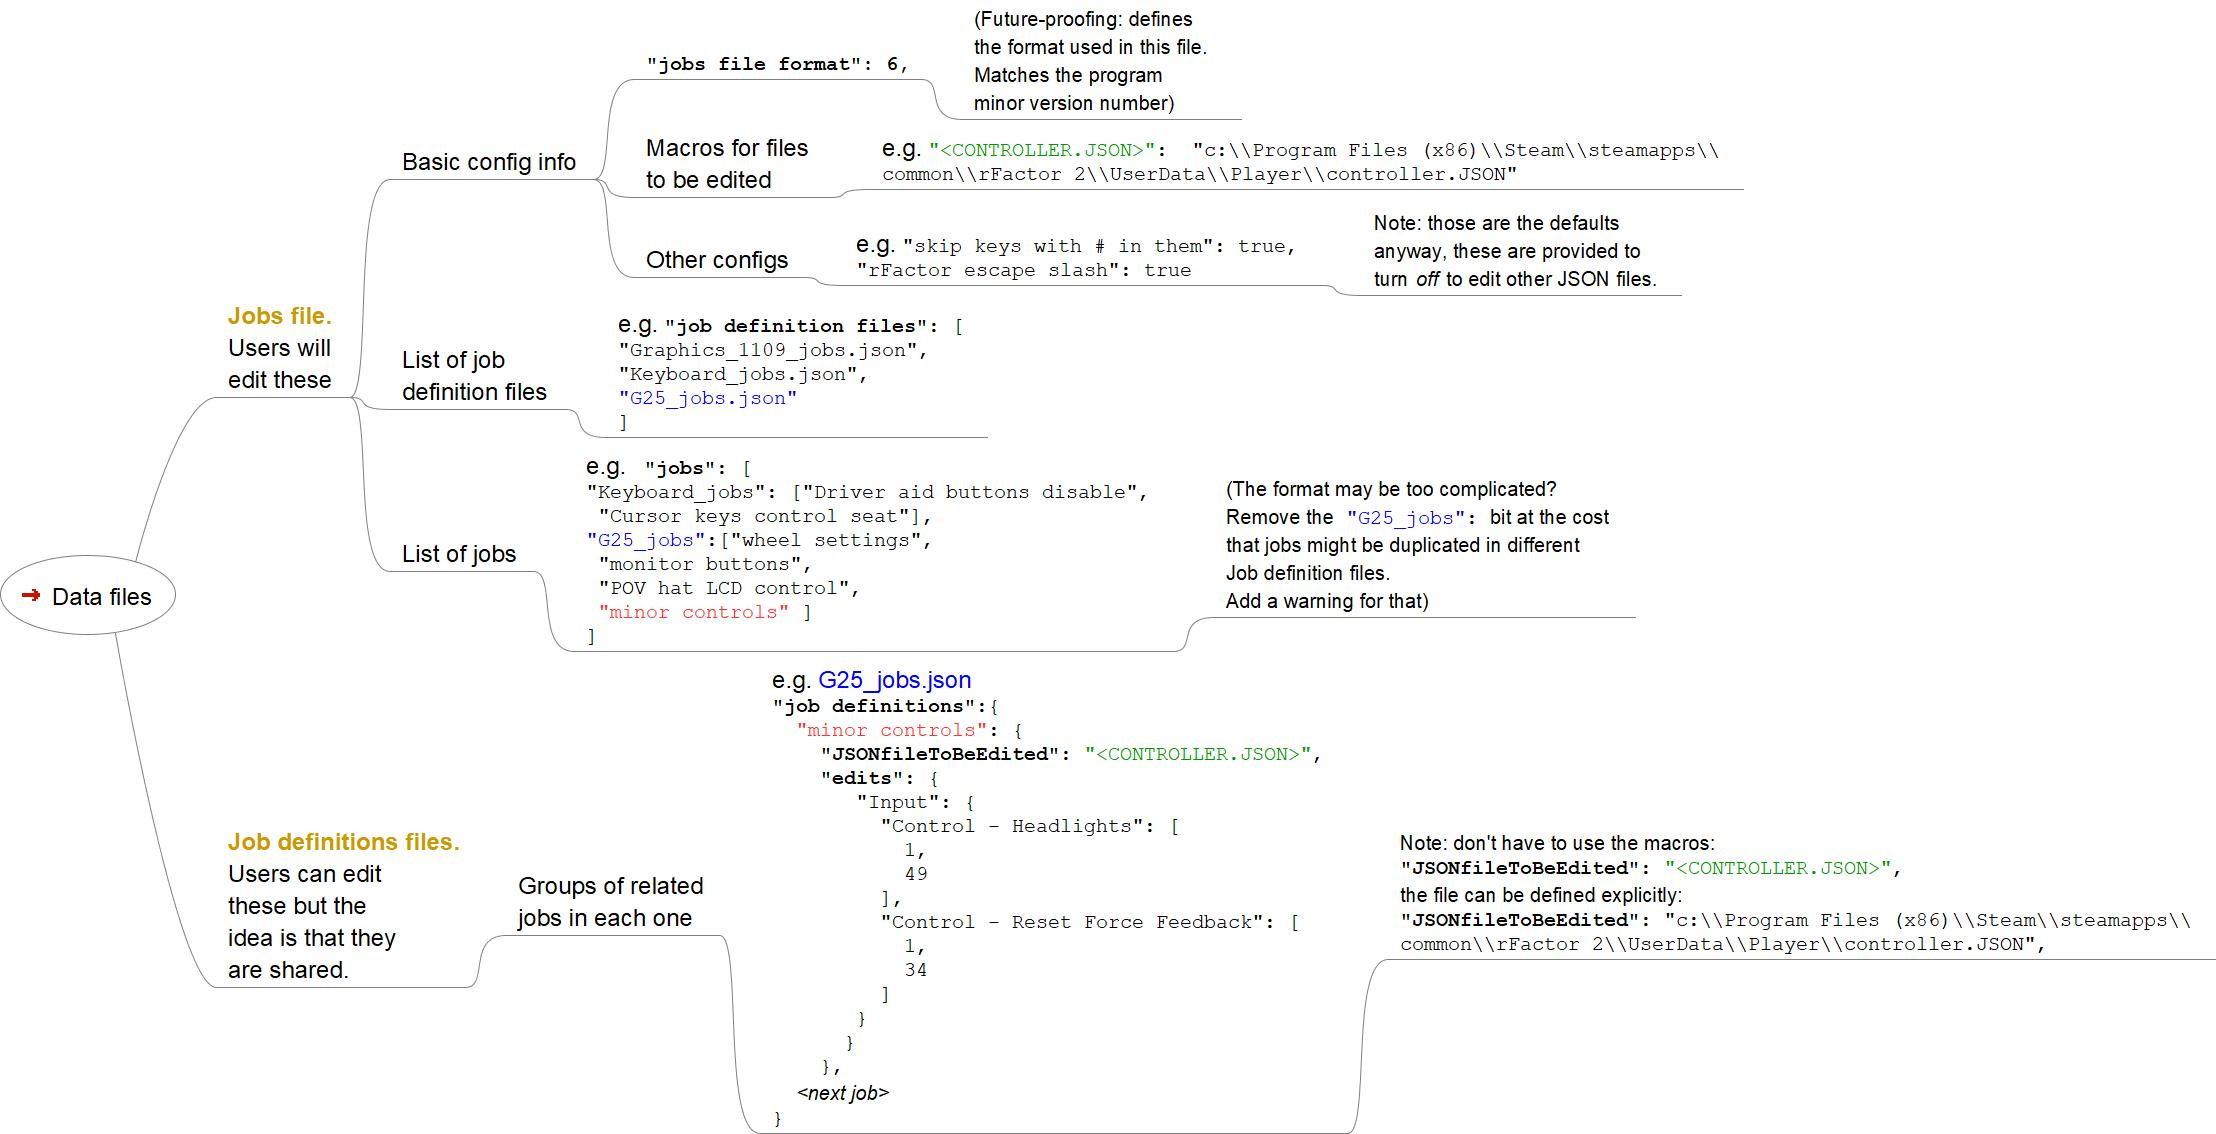
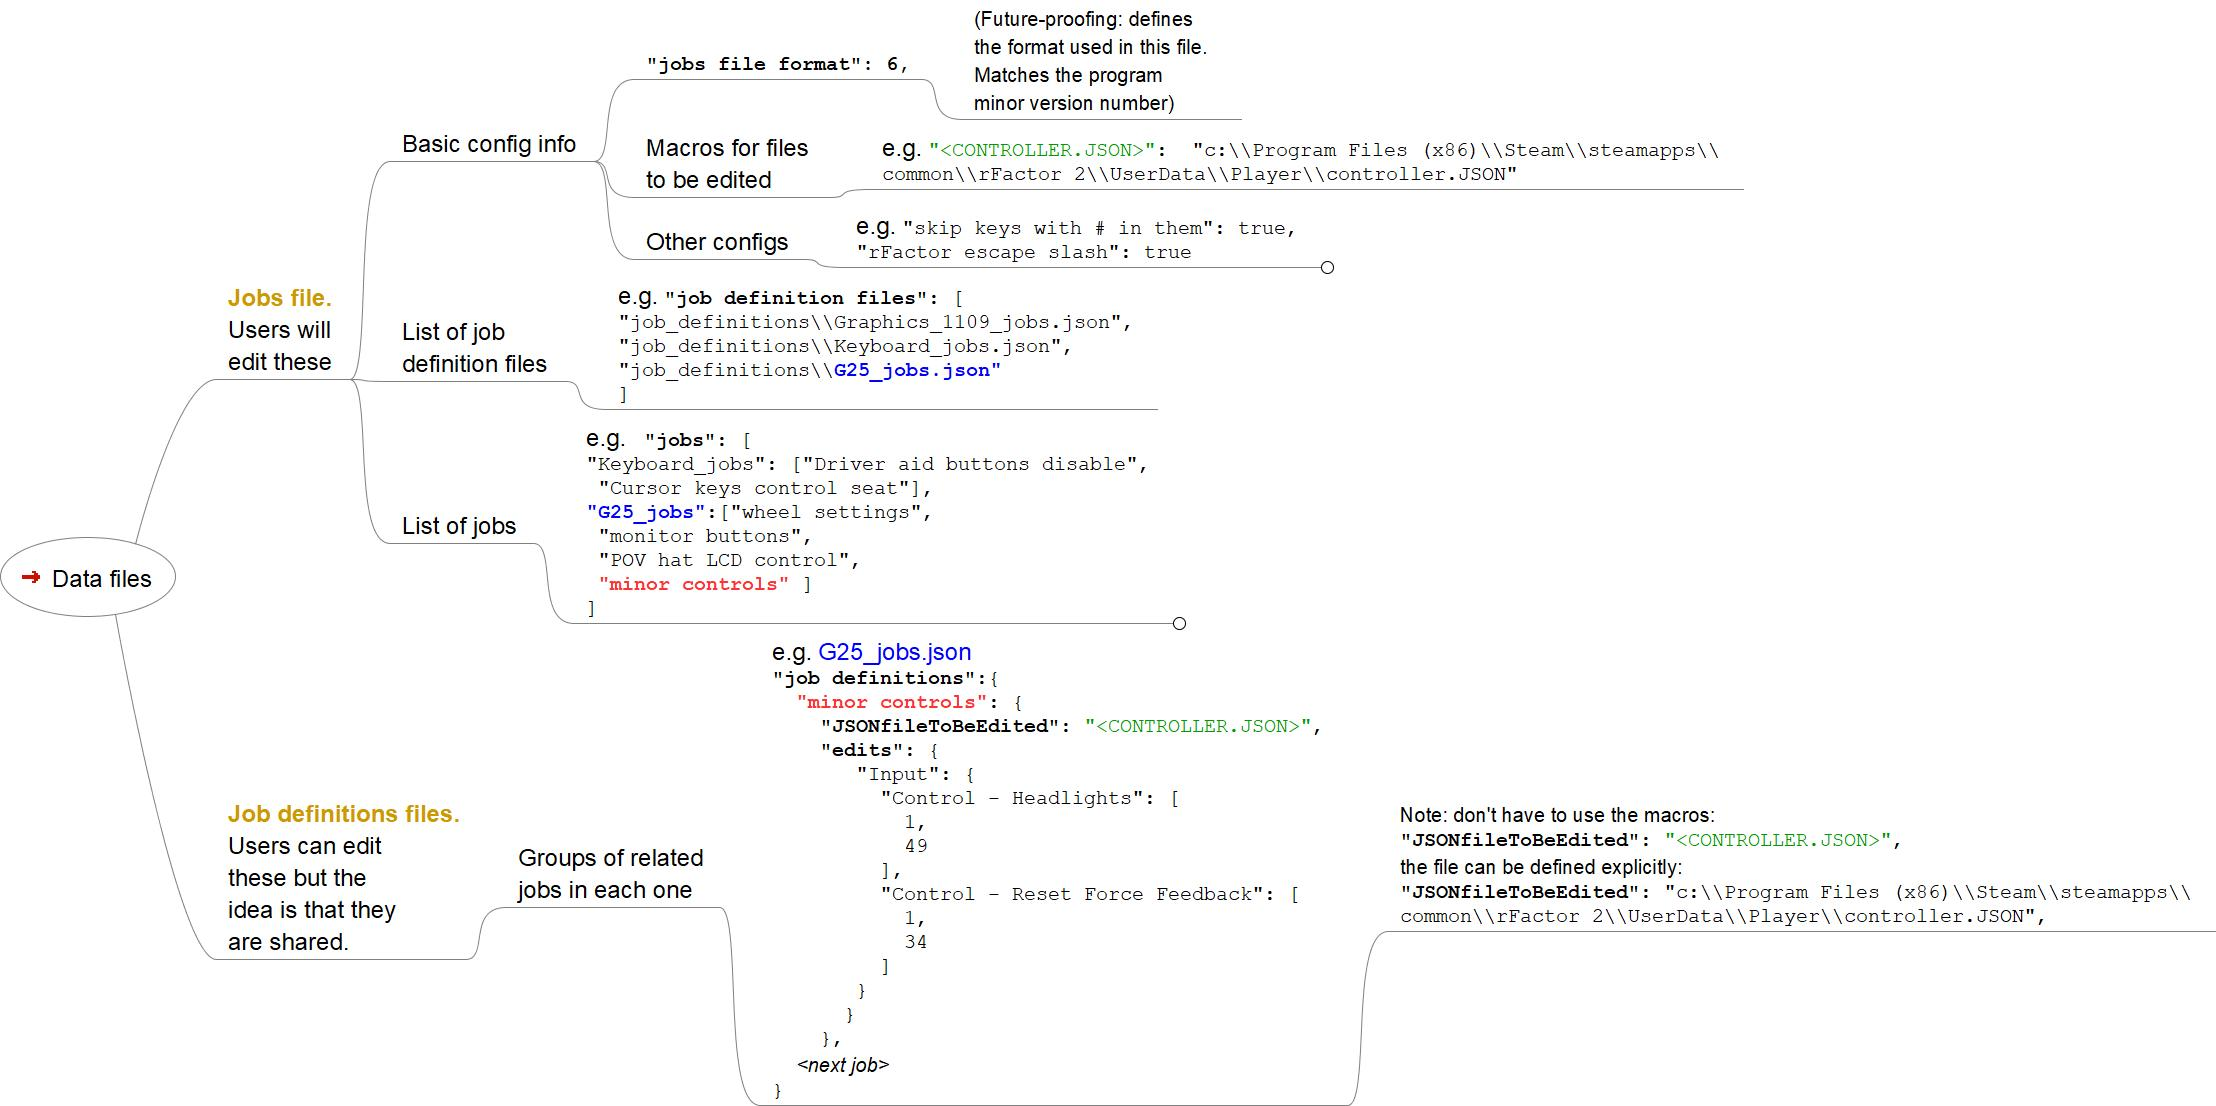
Update DataFiles.mm (PyLint)

diff --git a/DataFiles.mm b/DataFiles.mm
@@ -26,8 +26,7 @@
       <font face="Courier New" size="2"><b>&quot;jobs file format&quot;: 6,</b></font>
     </p>
   </body>
-</html>
-</richcontent>
+</html></richcontent>
 <node CREATED="1515501202851" ID="ID_482713436" MODIFIED="1515501441725">
 <richcontent TYPE="NODE"><html>
   <head>
@@ -47,8 +46,7 @@
       <font size="2">minor version number)</font>
     </p>
   </body>
-</html>
-</richcontent>
+</html></richcontent>
 </node>
 </node>
 <node CREATED="1515418084752" ID="ID_1845539891" MODIFIED="1515418135620" TEXT="Macros for files &#xa;to be edited">
@@ -69,7 +67,7 @@
 </node>
 </node>
 <node CREATED="1515418194512" ID="ID_640373349" MODIFIED="1515418226919" TEXT="Other configs">
-<node CREATED="1515419869163" ID="ID_891624062" MODIFIED="1515419891251">
+<node CREATED="1515419869163" FOLDED="true" ID="ID_891624062" MODIFIED="1515843920961">
 <richcontent TYPE="NODE"><html>
   <head>
     
@@ -110,7 +108,7 @@
     </p>
   </body>
 </html></richcontent>
-<node CREATED="1515418395905" ID="ID_1869087592" MODIFIED="1515442316275">
+<node CREATED="1515418395905" ID="ID_1869087592" MODIFIED="1515843864342">
 <richcontent TYPE="NODE"><html>
   <head>
     
@@ -120,23 +118,24 @@
       e.g. <font face="Courier New" size="2"><b>&quot;job definition files&quot;</b>: [ </font>
     </p>
     <p>
-      <font face="Courier New" size="2">&quot;Graphics_1109_jobs.json&quot;, </font>
+      <font face="Courier New" size="2">&quot;job_definitions\\Graphics_1109_jobs.json&quot;, </font>
     </p>
     <p>
-      <font face="Courier New" size="2">&quot;Keyboard_jobs.json&quot;,</font>
+      <font face="Courier New" size="2">&quot;job_definitions\\Keyboard_jobs.json&quot;,</font>
     </p>
     <p>
-      <font color="#0000ff" face="Courier New" size="2">&quot;G25_jobs.json&quot;</font>
+      <font color="#000000" face="Courier New" size="2">&quot;job_definitions\\</font><font color="#0000ff" face="Courier New" size="2"><b>G25_jobs.json</b>&quot;</font>
     </p>
     <p>
       <font face="Courier New" size="2">]</font>
     </p>
   </body>
-</html></richcontent>
+</html>
+</richcontent>
 </node>
 </node>
 <node CREATED="1515418063296" ID="ID_508297608" MODIFIED="1515418073772" TEXT="List of jobs">
-<node CREATED="1515418302552" ID="ID_1707745729" MODIFIED="1515501497027">
+<node CREATED="1515418302552" FOLDED="true" ID="ID_1707745729" MODIFIED="1515843889256">
 <richcontent TYPE="NODE"><html>
   <head>
     
@@ -152,7 +151,7 @@
       <font face="Courier New" size="2">&#160;&quot;Cursor keys control seat&quot;], </font>
     </p>
     <p>
-      <font color="#0000ff" face="Courier New" size="2">&quot;G25_jobs&quot;</font><font face="Courier New" size="2">:[&quot;wheel settings&quot;, </font>
+      <font color="#0000ff" face="Courier New" size="2">&quot;<b>G25_jobs</b>&quot;</font><font face="Courier New" size="2">:[&quot;wheel settings&quot;, </font>
     </p>
     <p>
       <font face="Courier New" size="2">&#160;&quot;monitor buttons&quot;, </font>
@@ -161,13 +160,14 @@
       <font face="Courier New" size="2">&#160;&quot;POV hat LCD control&quot;, </font>
     </p>
     <p>
-      <font color="#ff3333" face="Courier New" size="2">&#160;&quot;minor controls&quot;</font><font face="Courier New" size="2">&#160;]</font>
+      <font color="#ff3333" face="Courier New" size="2">&#160;&quot;<b>minor controls</b>&quot;</font><font face="Courier New" size="2">&#160;]</font>
     </p>
     <p>
       <font face="Courier New" size="2">]<br face="Courier New" size="2" /></font>
     </p>
   </body>
-</html></richcontent>
+</html>
+</richcontent>
 <node CREATED="1515501202851" ID="ID_230601946" MODIFIED="1515501602069">
 <richcontent TYPE="NODE"><html>
   <head>
@@ -190,8 +190,7 @@
       <font size="2">Add a warning for that)</font>
     </p>
   </body>
-</html>
-</richcontent>
+</html></richcontent>
 </node>
 </node>
 </node>
@@ -233,7 +232,7 @@
     </p>
   </body>
 </html></richcontent>
-<node CREATED="1515418635697" ID="ID_273646635" MODIFIED="1515442177570">
+<node CREATED="1515418635697" ID="ID_273646635" MODIFIED="1515843908225">
 <richcontent TYPE="NODE"><html>
   <head>
     
@@ -246,7 +245,7 @@
       <font face="Courier New" size="2"><b>&quot;job definitions&quot;</b>:{ </font>
     </p>
     <p>
-      <font face="Courier New" size="2">&#160; </font><font color="#ff3333" face="Courier New" size="2">&quot;minor controls&quot;</font><font face="Courier New" size="2">: { </font>
+      <font face="Courier New" size="2">&#160; </font><font color="#ff3333" face="Courier New" size="2">&quot;<b>minor controls</b>&quot;</font><font face="Courier New" size="2">: { </font>
     </p>
     <p>
       <font face="Courier New" size="2">&#160;&#160;&#160;&#160;<b>&quot;JSONfileToBeEdited&quot;</b>: </font><font color="#009900" face="Courier New" size="2">&quot;&lt;CONTROLLER.JSON&gt;&quot;</font><font face="Courier New" size="2">, </font>
@@ -297,7 +296,8 @@
       <font face="Courier New" size="2">} </font>
     </p>
   </body>
-</html></richcontent>
+</html>
+</richcontent>
 <node CREATED="1515420808510" ID="ID_1066793374" MODIFIED="1515429956902">
 <richcontent TYPE="NODE"><html>
   <head>

diff --git a/ScriptedJsonEditor/ScriptedJsonEditor.py b/ScriptedJsonEditor/ScriptedJsonEditor.py
@@ -49,7 +49,9 @@ class JsonFile():
       "skip keys with # in them": True
     }
 
-  def read(self, filepath, dirPath=None):
+  # pylint: disable=unused-argument
+  # dirpath is there to match readInclude which is not used.
+  def read(self, filepath, dirpath=None):
     """ Read the JSON file """
     try:
       with open(filepath) as f_p:
@@ -69,6 +71,8 @@ class JsonFile():
     Read the JSON file that may include other JSON files
     (in the same folder unless 'dirpath' is set)
     """
+    # pylint: disable=misplaced-bare-raise
+    # "not inside an except clause"?
     try:
       if dirpath is None:
         dirpath = os.path.abspath(os.path.dirname(os.path.realpath(filepath)))
